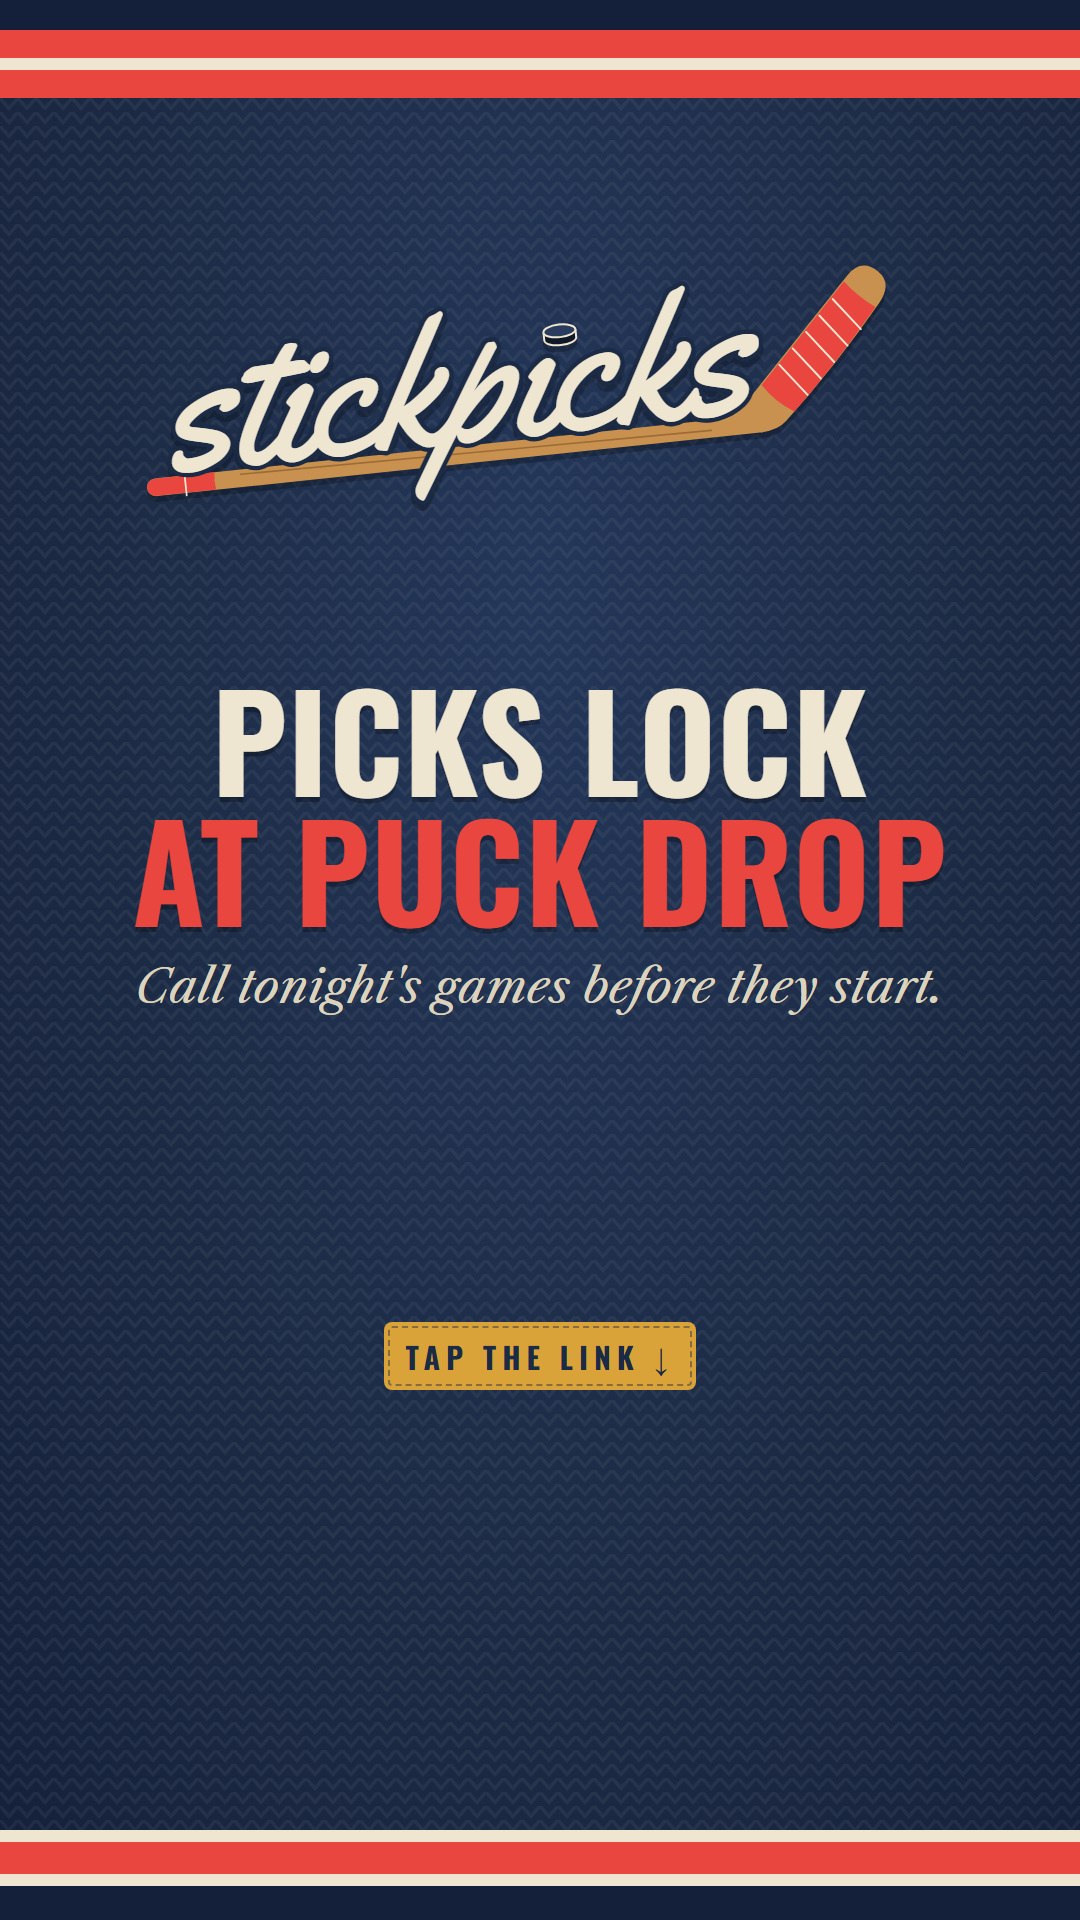
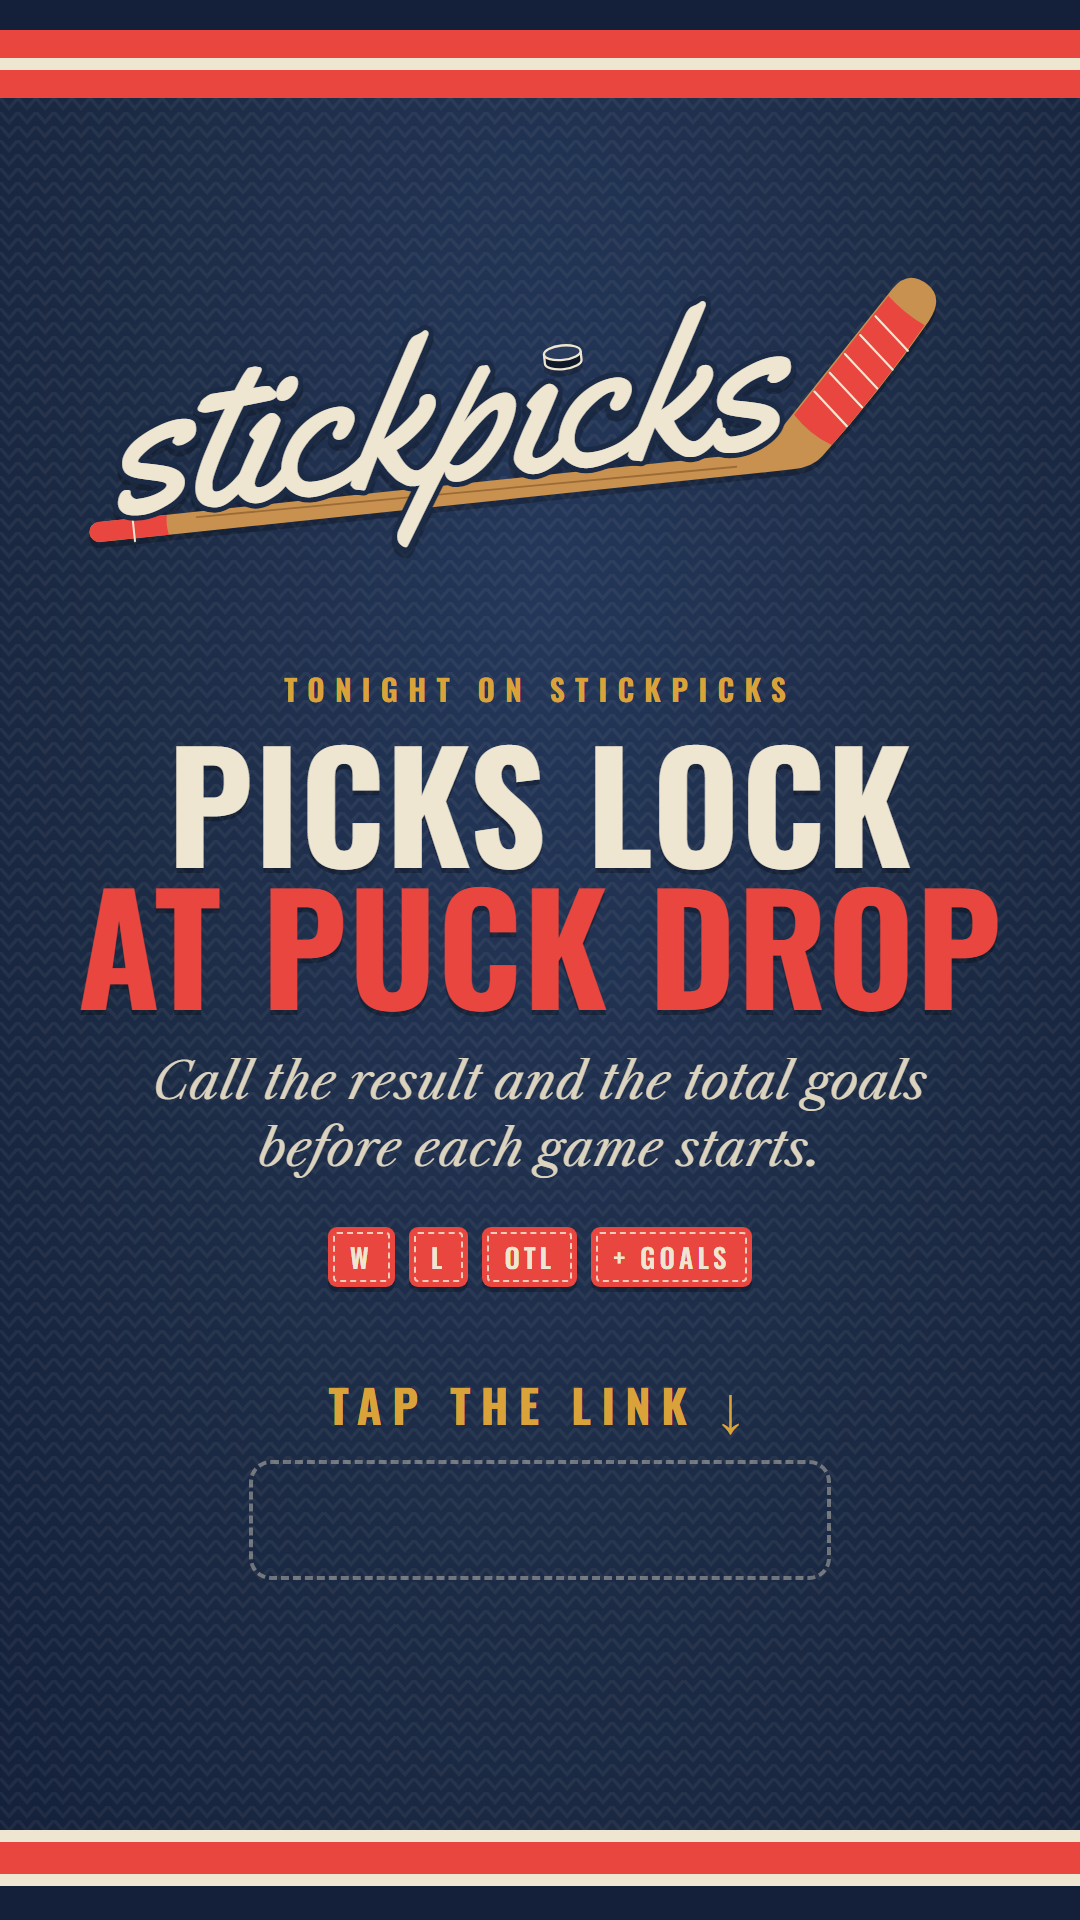
Update insta posts

Changed region(s): [[0.0611, 0.3438, 0.9472, 0.75], [0.0917, 0.125, 0.8861, 0.2812], [0.1528, 0.5625, 0.2139, 0.5938]]

diff --git a/marketing/instagram/build.py b/marketing/instagram/build.py
@@ -2,6 +2,7 @@
 
     python marketing/instagram/build.py                        # every starter-kit picture
     python marketing/instagram/build.py gamenight 2026-10-22   # a game-night picture for that date (real NHL schedule)
+    python marketing/instagram/build.py results 2026-10-24     # final scores for that date (the morning-after post)
     python marketing/instagram/build.py pressbox 26.2          # a Press Box picture for that update (from pressbox.js)
 
 Each picture is an HTML page rendered to PNG with headless Microsoft Edge at Instagram's sizes:
@@ -266,6 +267,40 @@ def gamenight(date):
       .pairs > span{{display:flex;align-items:center;gap:10px}} .pairs em{{font:italic 22px 'Libre Caslon Text',serif;color:#BFB7A5}}
       .pairs .chip{{width:84px;height:48px;font-size:24px}}"""))
 
+def results(date):
+    """Final scores for a date (the morning-after post): winner in bold, OT / SO tagged, overtime games counted for the OTL tip."""
+    with urllib.request.urlopen(urllib.request.Request(f"https://api-web.nhle.com/v1/score/{date}", headers=UA)) as r:
+        games = [g for g in json.load(r)["games"] if g.get("gameState") in ("OFF", "FINAL")]
+    if not games: return print(f"no finished games on {date}")
+    d = datetime.date.fromisoformat(date); n = len(games)
+    size = 34 if n <= 8 else 31 if n <= 11 else 29 if n <= 13 else 25
+    pad = 18 if n <= 6 else 12 if n <= 9 else 8 if n <= 13 else 6   # leaves room for the overtime note
+    rows, ot = [], 0
+    for g in games:
+        a, h = g["awayTeam"], g["homeTeam"]; aw = a["score"] > h["score"]
+        extra = (g.get("gameOutcome") or {}).get("lastPeriodType", "REG")
+        if extra != "REG": ot += 1
+        nm = lambda t, win: f'<span class="{"win" if win else ""}">{TEAMS.get(t["abbrev"], {}).get("name", t["abbrev"]).split(" ")[-1] if False else t["abbrev"]}</span>'
+        tag = f'<i class="ot">{extra}</i>' if extra != "REG" else '<i></i>'
+        rows.append(f'<div class="g">{chip(a["abbrev"])}<b class="{"w" if aw else ""}">{a["score"]}</b><span class="dash">–</span>'
+                    f'<b class="{"" if aw else "w"}">{h["score"]}</b>{chip(h["abbrev"])}{tag}</div>')
+    note = f"{ot} went to overtime. That's {ot} OTL calls that paid off." if ot > 1 else ""
+    render(f"07-results-{date}", page(f"""<div class="page">
+      <div class="kicker">{d.strftime('%A, %B')} {d.day} · finals</div>
+      <h1>Last <em>night</em></h1>
+      <div class="card list">{''.join(rows)}</div>
+      {f'<p class="lede" style="font-size:36px">{note}</p>' if note else ''}
+      <div class="foot"><span>Tonight's picks are open</span><b>Link in bio</b></div>
+    </div>""", extra=f""".list{{margin-top:34px;padding:16px 40px}}
+      .chip{{display:inline-grid;place-items:center;width:{size*2.3:.0f}px;height:{size*1.3:.0f}px;border-radius:7px;font:700 {size*.62:.0f}px/1 Oswald,sans-serif;
+        letter-spacing:1px;box-shadow:inset 0 0 0 2px rgba(255,255,255,.35),0 2px 0 rgba(0,0,0,.2)}}
+      .g{{display:grid;grid-template-columns:auto 70px 30px 70px auto 1fr;align-items:center;gap:0 14px;padding:{pad}px 0;border-bottom:2px solid #E2D9C6}}
+      .g:last-child{{border-bottom:0}}
+      .g b{{font:700 {size*1.25:.0f}px/1 Oswald,sans-serif;color:#9AA3B2;text-align:center}} .g b.w{{color:var(--ink)}}
+      .g .dash{{font:700 {size}px Oswald;color:#B9AE97;text-align:center}}
+      .g i{{justify-self:end;font:700 {size*.7:.0f}px Oswald,sans-serif;font-style:normal;letter-spacing:2px}}
+      .g i.ot{{color:#fff;background:var(--otl);padding:6px 12px;border-radius:6px}}"""))
+
 def otl_tip():
     render("04-otl-tip", page("""<div class="page">
       <div class="kicker">Quick tip</div>
@@ -289,16 +324,23 @@ def breakaway_cover():
     </div>""", 1080, 1920), 1080, 1920)
 
 def story_lock():
-    render("06-story-picks-lock", page(f"""<div class="page" style="top:250px;bottom:200px;text-align:center">
-      <div style="margin:0 50px">{LOGO}</div>
-      <h1 style="font-size:132px;margin-top:130px">Picks lock<br><em>at puck drop</em></h1>
-      <p class="lede" style="font-size:46px">Call tonight's games before they start.</p>
-      <div class="foot" style="justify-content:center;margin-bottom:330px"><b>Tap the link ↓</b></div>
-    </div>""", 1080, 1920), 1080, 1920)
+    """Story (1080x1920). Instagram covers about the top 250px (profile bar) and bottom 340px (reply bar), so everything sits
+    between them; the dashed box is where the link sticker goes."""
+    render("06-story-picks-lock", page(f"""<div class="page" style="top:250px;bottom:340px;left:70px;right:70px;text-align:center;align-items:center">
+      <div style="width:100%;margin:10px 0 0">{LOGO}</div>
+      <div class="kicker" style="margin-top:70px">Tonight on stickpicks</div>
+      <h1 style="font-size:150px;line-height:.95;margin-top:18px">Picks lock<br><em>at puck drop</em></h1>
+      <p class="lede" style="font-size:50px;margin-top:34px">Call the result and the total goals<br>before each game starts.</p>
+      <div class="patches" style="margin-top:44px;justify-content:center"><span>W</span><span>L</span><span>OTL</span><span>+ goals</span></div>
+      <div class="tap">Tap the link ↓</div><div class="sticker"></div>
+    </div>""", 1080, 1920, extra=""".tap{margin-top:auto;font:700 46px Oswald,sans-serif;letter-spacing:10px;text-transform:uppercase;color:var(--gold)}
+      .sticker{margin-top:22px;width:62%;height:120px;border-radius:22px;border:4px dashed rgba(239,230,210,.4)}"""), 1080, 1920)
 
 if __name__ == "__main__":
     if len(sys.argv) >= 3 and sys.argv[1] == "gamenight":
         gamenight(sys.argv[2])
+    elif len(sys.argv) >= 3 and sys.argv[1] == "results":
+        results(sys.argv[2])
     elif len(sys.argv) >= 3 and sys.argv[1] == "pressbox":
         pressbox(sys.argv[2])
     else:
